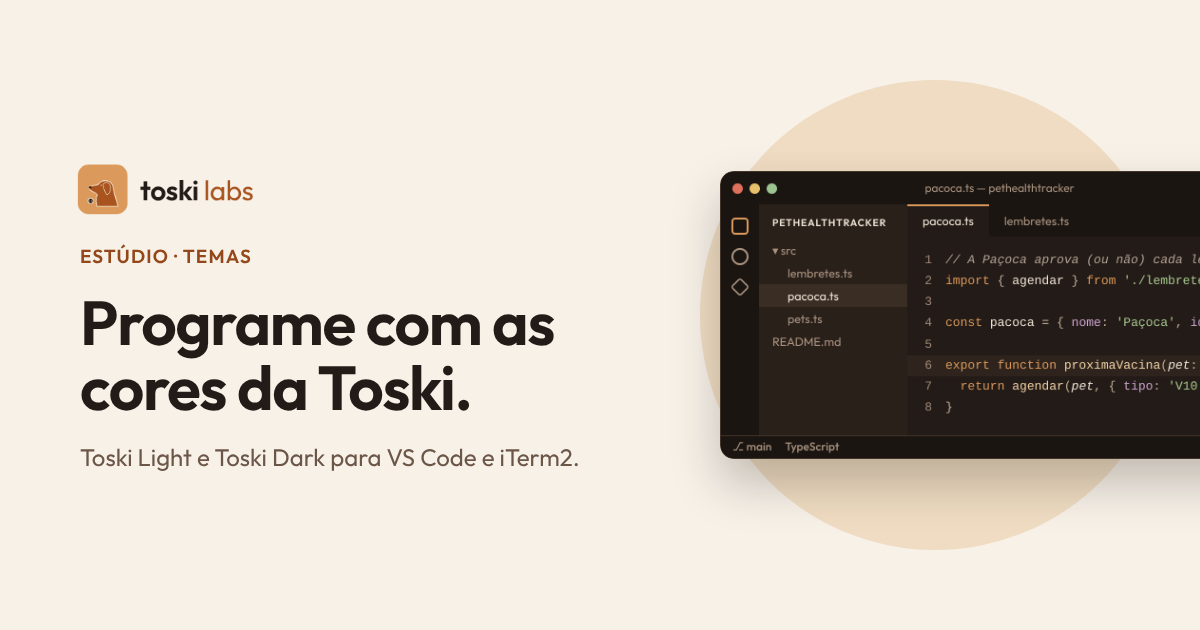
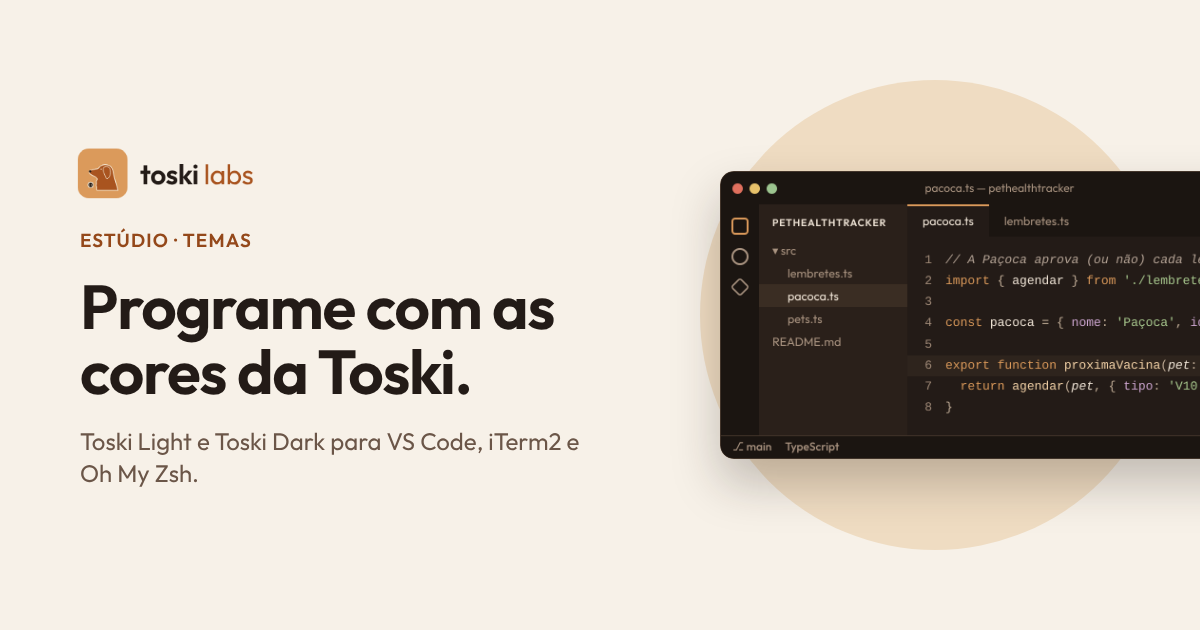
Add the Toski theme for Oh My Zsh to the Studio
New card on the Themes page with an HTML preview of the prompt (light and dark), the install command with copy, and links to the repository and Nerd Fonts. Titles, descriptions, Studio pills and the share images now mention Oh My Zsh.

Changed region(s): [[0.0617, 0.4524, 0.4625, 0.6635], [0.0617, 0.6937, 0.4933, 0.7841], [0.0617, 0.2111, 0.2158, 0.4222]]

diff --git a/src/data/studio.ts b/src/data/studio.ts
@@ -1,5 +1,5 @@
 /**
- * Estúdio: wallpapers, temas (VS Code e iTerm2) e o Toski DS.
+ * Estúdio: wallpapers, temas (VS Code, iTerm2 e Oh My Zsh) e o Toski DS.
  *
  * `ready` controla o que vai para o ar. Enquanto um item não estiver pronto
  * (links de verdade preenchidos), ele aparece só no `npm run dev`; no site publicado
@@ -31,6 +31,13 @@ export const studio = {
         { asset: 'Toski.Dark.itermcolors', name: 'Toski Dark', detail: { pt: 'Só escuro', en: 'Dark only' } },
         { asset: 'Toski.Light.itermcolors', name: 'Toski Light', detail: { pt: 'Só claro', en: 'Light only' } },
       ],
+    },
+    zsh: {
+      githubUrl: 'https://github.com/Toski-Labs/toski-labs-oh-my-zsh',
+      /** Baixa o tema direto para a pasta de temas do Oh My Zsh (comando do README do repositório). */
+      install:
+        'curl -fsSL https://raw.githubusercontent.com/Toski-Labs/toski-labs-oh-my-zsh/main/toski.zsh-theme -o "${ZSH_CUSTOM:-$HOME/.oh-my-zsh/custom}/themes/toski.zsh-theme"',
+      nerdFontsUrl: 'https://www.nerdfonts.com',
     },
   },
   ds: {

diff --git a/docs/PLANO.md b/docs/PLANO.md
@@ -80,7 +80,7 @@ Menu do cabeçalho agora: Projetos · Wallpapers · Suporte (o "Sobre" segue ace
 ## Estúdio ✅ (5 out 2026)
 - Menu: Projetos · **Estúdio** · Suporte. Endereços: `/estudio` (`/en/studio`), `/estudio/wallpapers` (`/en/studio/wallpapers`, antes `/wallpapers`) e `/estudio/temas` (`/en/studio/themes`).
 - Página principal: cards de Wallpapers e Temas e a faixa do **Toski DS** (cores que copiam no clique, fonte, tokens, link para o GitHub).
-- Temas: VS Code e iTerm2, com prévia clara/escura feita em HTML (troca só com CSS). Paletas e código de exemplo em `src/data/studio.ts`.
+- Temas: VS Code, iTerm2 e Oh My Zsh, com prévia clara/escura feita em HTML (troca só com CSS). Paletas e código de exemplo em `src/data/studio.ts`.
 - **O que vai para o ar** é controlado por `studio.themes.ready` e `studio.ds.ready` em `src/data/studio.ts`. Enquanto estiverem `false`: no `npm run dev` aparece tudo; no site publicado o card de Temas e a faixa do DS somem, e `/estudio/temas` fica com noindex e fora do sitemap.
 - Para publicar: preencher os links (Marketplace, Open VSX, `.itermcolors`, GitHub dos temas e do DS) e trocar `ready` para `true`.
 
@@ -95,7 +95,7 @@ Menu do cabeçalho agora: Projetos · Wallpapers · Suporte (o "Sobre" segue ace
 
 ### Feito e conferido no código
 - Fases 0 a 4 completas: starter removido, tokens e Outfit locais (sem Google Fonts), i18n em `src/i18n/ui.ts`, BaseLayout com canonical, `hreflang` (pt-BR, en, x-default), Open Graph, Twitter card e `theme-color` claro/escuro; componentes de UI e marca; 7 páginas em PT e EN + 404 com `noindex`; sitemap sem a 404 e sem páginas não publicadas; `robots.txt`; imagens OG.
-- Novidades: menu de configurações (tema e idioma), aviso de idioma do navegador, campanhas por Remote Config, Estúdio com Wallpapers (6 coleções, release v2.1) e Temas (VS Code e iTerm2 publicados, `themes.ready: true`), botão de voltar ao topo.
+- Novidades: menu de configurações (tema e idioma), aviso de idioma do navegador, campanhas por Remote Config, Estúdio com Wallpapers (6 coleções, release v2.1) e Temas (VS Code, iTerm2 e Oh My Zsh publicados, `themes.ready: true`), botão de voltar ao topo.
 - No ar em `toski-labs.web.app` (as 14 páginas respondem; `/wallpapers` redireciona). `npm run deploy` publica.
 - axe-core (6 out): nenhuma violação em 15 páginas, 1280/390 px, claro e escuro.
 

diff --git a/README.md b/README.md
@@ -89,6 +89,7 @@ O botão Mobile baixa do próprio site; os de desktop baixam da release mais rec
 - Wallpapers: [Toski-Labs/toski-labs-wallpapers](https://github.com/Toski-Labs/toski-labs-wallpapers)
 - Tema VS Code: [Toski-Labs/toski-labs-vscode-theme](https://github.com/Toski-Labs/toski-labs-vscode-theme)
 - Tema iTerm2: [Toski-Labs/toski-labs-iterm-theme](https://github.com/Toski-Labs/toski-labs-iterm-theme)
+- Tema Oh My Zsh: [Toski-Labs/toski-labs-oh-my-zsh](https://github.com/Toski-Labs/toski-labs-oh-my-zsh)
 - Design system: [Toski-Labs/toski-ds](https://github.com/Toski-Labs/toski-ds)
 
 Plano e decisões do projeto: [`docs/PLANO.md`](docs/PLANO.md).
